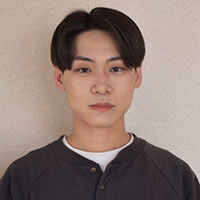
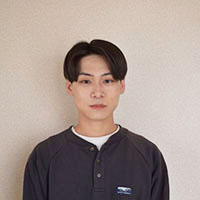
画像整理

diff --git a/src/index.html b/src/index.html
@@ -244,7 +244,7 @@
                   <div class="m-circle__content">
                       <h2 class="m-circle__title" id="anc-01">Profile</h2>
                       <div class="m-circle__image">
-                            <img src="/images/S__24969275.jpg" alt="" width="240" height="240" class="m-circle__imageInner">
+                            <img src="/images/profire.jpg" alt="" width="240" height="240" class="m-circle__imageInner">
                       </div><!-- /.m-circle__image -->
                     <div>
                         <p class="m-circle__text">はじめまして。</p>
